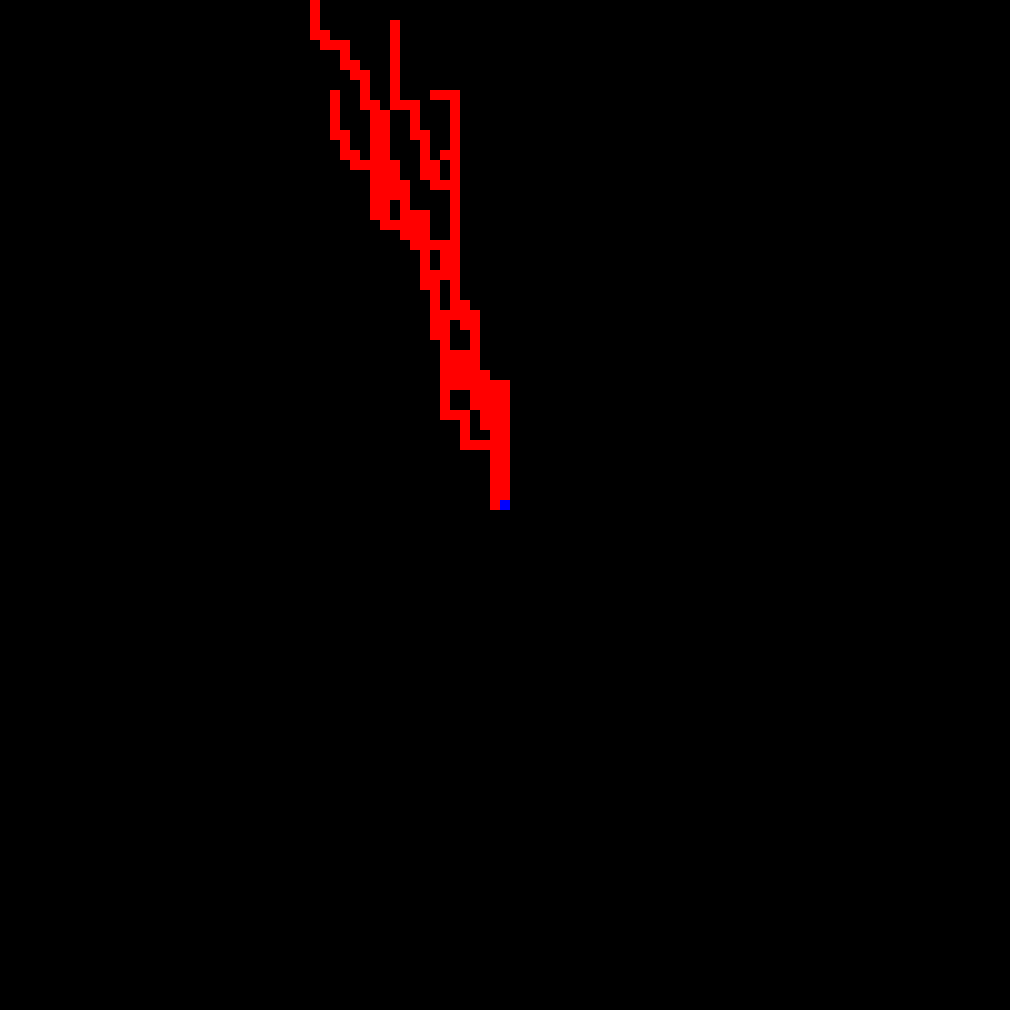
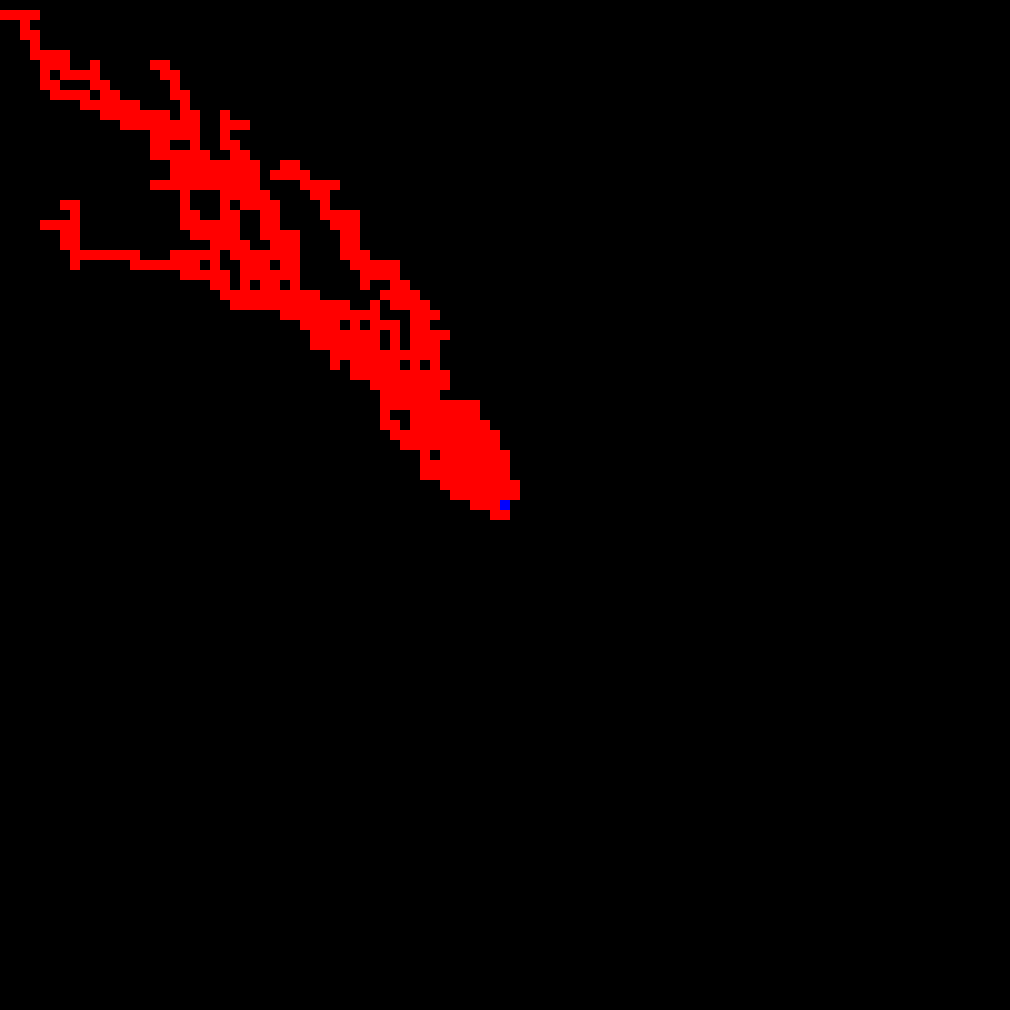
did ai make me worse at coding (cuz i didnt think i was this bad)

Changed region(s): [[0.0, 0.0, 0.5218, 0.5218]]

diff --git a/slime-mold/main.go b/slime-mold/main.go
@@ -100,6 +100,16 @@ func (v *Vector) scale(r float64) {
 	v.y *= r
 }
 
+func (v *Vector) magnitude() float64 {
+	return math.Sqrt(v.x*v.x + v.y*v.y)
+}
+
+func (v *Vector) normalize() {
+	magnitude := v.magnitude()
+
+	v.scale(1 / magnitude)
+}
+
 func factorial(n int) int {
 	result := 1
 	for i := 1; i <= n; i++ {
@@ -303,6 +313,7 @@ func (g Grid) raw_index(point Point) *SiteState {
 }
 
 func (g Grid) index(point Point) *SiteState {
+	point.y *= -1
 	real_point := add_points(point, real_mid_point(len(g)))
 
 	return &g[real_point.y][real_point.x]
@@ -473,10 +484,10 @@ func (m *Model) countOnRadius(radius int) int {
 	return count
 }
 
-var WEIGHT_VECTOR = Vector{-1, 1}
+var WEIGHT_VECTOR = Vector{x: -1, y: 1}
 
 func dotProduct(v1, v2 Vector) float64 {
-	return v1.x*v2.x + v1.y + v2.y
+	return v1.x*v2.x + v1.y*v2.y
 }
 
 func weightedDirection(weight Vector, r *rand.Rand) Point {
@@ -492,20 +503,25 @@ func weightedDirection(weight Vector, r *rand.Rand) Point {
 		sumProbs += dot + 1
 	}
 
-	selection := r.ExpFloat64() * (sumProbs)
+	// fmt.Println(probabilites)
+
+	selection := r.Float64() * (sumProbs)
+
+	runningProb := sumProbs
 
 	i := len(probabilites) - 1
 
 	for i > 0 {
 
-		prob := probabilites[i]
-		if prob >= selection {
+		runningProb -= probabilites[i]
+		if selection > runningProb {
+			// fmt.Println(selection, prob)
 			return CARDINALS[i]
 		}
 		i--
 	}
 
-	return CARDINALS[i]
+	return CARDINALS[0]
 
 	// panic("ahhhhh")
 
@@ -855,7 +871,7 @@ func LinearRegression(s stats.Series) (float64, float64, error) {
 
 func main() {
 
-	WEIGHT_VECTOR.scale(1 / math.Sqrt2)
+	WEIGHT_VECTOR.normalize()
 	// testing()
 	// return
 
@@ -1023,7 +1039,7 @@ func one_trial(filename string) {
 
 	_ = model.run_trial(r)
 
-	// model.makeVid(filename)
+	model.makeVid(filename)
 	// for _, point := range data {
 	// 	fmt.Println(point.radius)
 	// }
